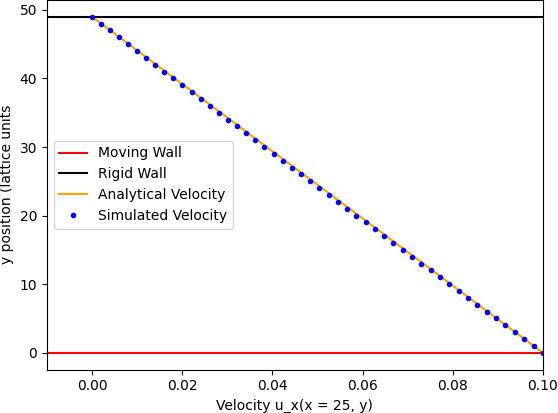
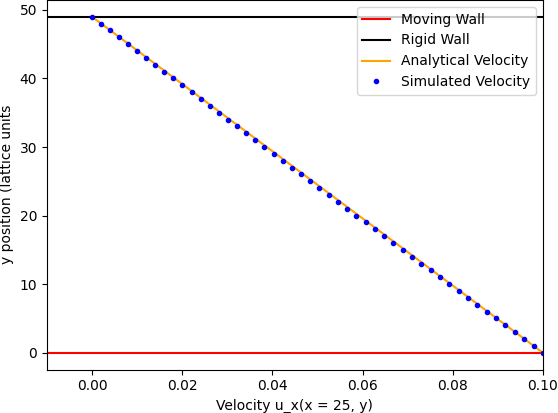
Add parallel code (not working)

Changed region(s): [[0.6398, 0.0, 0.9749, 0.2324], [0.0914, 0.3487, 0.4265, 0.5521], [0.6398, 0.2034, 0.6703, 0.2324]]

diff --git a/plot.py b/plot.py
@@ -12,12 +12,9 @@ VELOCITY = 2
 DENSITY = 3
 
 
-
 class Plotter:
     def __init__(self):
         self.fig, self.ax = plt.subplots()
-        self.fig2, self.ax2 = plt.subplots()
-        self.figs, self.axes = [self.fig, self.fig2], [self.ax, self.ax2]
         self.quantities = []
 
         self.path = os.path.join(PATH, 'shear_wave_decay')
@@ -35,20 +32,20 @@ class Plotter:
 
     def plot_shear_wave(self, velocities, rho, p0, step, epsilon, nx, ny, experiment):
         if experiment == "density":
-            self.axes[0].cla()
-            self.axes[0].set_ylim([-epsilon + p0, epsilon + p0])
-            self.axes[0].plot(np.arange(nx), rho[:, ny//2])
-            self.axes[0].set_xlabel('x')
-            self.axes[0].set_ylabel('density')
+            self.ax.cla()
+            self.ax.set_ylim([-epsilon + p0, epsilon + p0])
+            self.ax.plot(np.arange(nx), rho[:, ny//2], '.', color=COLORS[SIMULATION])
+            self.ax.set_xlabel('x')
+            self.ax.set_ylabel('density')
             save_path = os.path.join(
                 self.density_path, f'density_decay_{step}.png')
-            self.figs[0].savefig(save_path, bbox_inches='tight', pad_inches=0)
+            self.fig.savefig(save_path, bbox_inches='tight', pad_inches=0)
         else:
-            self.axes[0].cla()
-            self.axes[0].set_ylim([-epsilon, epsilon])
-            self.axes[0].plot(np.arange(ny), velocities[0, nx//2, :])
-            self.axes[0].set_xlabel('y')
-            self.axes[0].set_ylabel('velocity')
+            self.ax.cla()
+            self.ax.set_ylim([-epsilon, epsilon])
+            self.ax.plot(np.arange(ny), velocities[0, nx//2, :], '.', color=COLORS[SIMULATION])
+            self.ax.set_xlabel('y')
+            self.ax.set_ylabel('velocity')
             save_path = os.path.join(
                 self.velocity_path, f'shear_wave_{step}.png')
             self.figs[0].savefig(save_path, bbox_inches='tight', pad_inches=0)
@@ -72,8 +69,6 @@ class Plotter:
 class Plotter2:
     def __init__(self):
         self.fig, self.ax = plt.subplots()
-        self.fig2, self.ax2 = plt.subplots()
-        self.figs, self.axes = [self.fig, self.fig2], [self.ax, self.ax2]
 
         self.path = os.path.join(PATH, 'cuette flow')
         os.makedirs(self.path, exist_ok=True)
@@ -82,66 +77,62 @@ class Plotter2:
         y = np.arange(ny)
         analytical = (ny-1 - y) / (ny-1) * wall_velocity[1]
 
-        self.axes[0].cla()
-        self.axes[0].set_xlim([-0.01, wall_velocity[1]])
-        self.axes[0].axhline(0.0, color='red')
-        self.axes[0].axhline(ny-1, color='black')
-        self.axes[0].plot(analytical, y, color=COLORS[ANALYTIC])
-        self.axes[0].plot(velocities[0, nx//2, :], y, '.', color=COLORS[SIMULATION])
-        self.axes[0].set_ylabel('y position (lattice units')
-        self.axes[0].set_xlabel('Velocity u_x(x = 25, y)')
-        self.axes[0].legend(['Moving Wall', 'Rigid Wall', 
-                             'Analytical Velocity','Simulated Velocity'])
+        self.ax.cla()
+        self.ax.set_xlim([-0.01, wall_velocity[1]])
+        self.ax.axhline(0.0, color='red')
+        self.ax.axhline(ny-1, color='black')
+        self.ax.plot(analytical, y, color=COLORS[ANALYTIC])
+        self.ax.plot(velocities[0, nx//2, :], y, '.', color=COLORS[SIMULATION])
+        self.ax.set_ylabel('y position (lattice units')
+        self.ax.set_xlabel('Velocity u_x(x = 25, y)')
+        self.ax.legend(['Moving Wall', 'Rigid Wall', 
+                             'Analytical Velocity','Simulated Velocity'], loc='upper right')
         save_path = os.path.join(self.path, f'couette_flow_{step}')
-        self.figs[0].savefig(save_path, bbox_inches='tight', pad_inches=0)
+        self.fig.savefig(save_path, bbox_inches='tight', pad_inches=0)
 
 
 class Plotter3:
     def __init__(self):
         self.fig, self.ax = plt.subplots()
-        self.fig2, self.ax2 = plt.subplots()
-        self.figs, self.axes = [self.fig, self.fig2], [self.ax, self.ax2]
 
         self.path = os.path.join(PATH, 'poiseuille flow')
         os.makedirs(self.path, exist_ok=True)
 
     def plot_poiseuille_flow(self, rho, velocities, omega, pressure_in, pressure_out, step, nx, ny):
         y = np.arange(ny)
-        self.axes[0].cla()
+        self.ax.cla()
         viscosity = 1/3 * (1/omega - 0.5)
         dynamic_viscosity = rho[nx//2, :] * viscosity
         partial_derivative = (pressure_out - pressure_in) / nx
         analytical = (-0.5 * partial_derivative * y *
                       (ny - 1 - y)) / dynamic_viscosity
-        # axes[0].set_xlim([0, np.max(analytical) + 0.001])
-        self.axes[0].plot(analytical, y, COLORS[ANALYTIC])
-        self.axes[0].plot(velocities[0, nx//2, :], y, '.', COLORS[SIMULATION])
-        self.axes[0].set_ylabel('y')
-        self.axes[0].set_xlabel('velocity')
-        self.axes[0].legend(['Analytical','Simulated'])
+        # ax.set_xlim([0, np.max(analytical) + 0.001])
+        self.ax.plot(analytical, y, COLORS[ANALYTIC])
+        self.ax.plot(velocities[0, nx//2, :], y, '.', COLORS[SIMULATION])
+        self.ax.set_ylabel('y')
+        self.ax.set_xlabel('velocity')
+        self.ax.legend(['Analytical','Simulated'])
         save_path = os.path.join(self.path, f'pousielle_flow_{step}')
-        self.figs[0].savefig(save_path, bbox_inches='tight', pad_inches=0)
+        self.fig.savefig(save_path, bbox_inches='tight', pad_inches=0)
 
 
 class Plotter4:
-    def __init__(self):
+    def __init__(self, experiment='sliding_lid'):
         self.fig, self.ax = plt.subplots()
-        self.fig2, self.ax2 = plt.subplots()
-        self.figs, self.axes = [self.fig, self.fig2], [self.ax, self.ax2]
-
-        self.path = os.path.join(PATH, 'sliding lid')
+        self.experiment = experiment
+        self.path = os.path.join(PATH, experiment)
         os.makedirs(self.path, exist_ok=True)
 
     def plot_sliding_lid(self, velocities, step, nx, ny):
-        self.axes[0].cla()
-        self.axes[0].set_xlim([0, nx])
-        self.axes[0].set_xlim([0, ny])
+        self.ax.cla()
+        self.ax.set_xlim([0, nx])
+        self.ax.set_xlim([0, ny])
         v = np.sqrt(velocities.T[:, :, 0]**2 + velocities.T[:, :, 1]**2)
-        self.axes[0].imshow(v, cmap='RdBu_r', vmin=0, interpolation='spline16')
+        self.ax.imshow(v, cmap='RdBu_r', vmin=0, interpolation='spline16')
         x, y = np.meshgrid(np.arange(nx), np.arange(ny))
-        self.axes[0].streamplot(x, y, velocities.T[:, :, 0], velocities.T[:, :, 1])
-        self.axes[0].legend(['Analytical','Simulated'])
-        self.axes[0].set_ylabel('y')
-        self.axes[0].set_xlabel('x')
-        save_path = os.path.join(self.path, f'sliding_lid_{step}')
-        self.figs[0].savefig(save_path, bbox_inches='tight', pad_inches=0)
+        self.ax.streamplot(x, y, velocities.T[:, :, 0], velocities.T[:, :, 1])
+        self.ax.legend(['Analytical','Simulated'])
+        self.ax.set_ylabel('y')
+        self.ax.set_xlabel('x')
+        save_path = os.path.join(self.path, f'{self.experiment}_{step}')
+        self.fig.savefig(save_path, bbox_inches='tight', pad_inches=0)

diff --git a/lb/manager.py b/lb/manager.py
@@ -1,0 +1,79 @@
+from mpi4py import MPI
+
+
+class WorkManager():
+    def __init__(self, global_nx: int, global_ny: int, worker_grid_x: int, worker_grid_y: int ):
+        self._workers = MPI.COMM_WORLD.Get_size()
+        self._rank = MPI.COMM_WORLD.Get_rank()
+        self._comm = MPI.COMM_WORLD.Create_cart(dims=[worker_grid_x, worker_grid_y], periods=[False, False], reorder=False)
+        
+        assert self._workers > worker_grid_x * worker_grid_y #max size
+
+        self.left_src, self.left_dst = self._comm.Shift(0, -1)
+        self.right_src, self.right_dst = self._comm.Shift(0, 1)
+        self.bottom_src, self.bottom_dst = self._comm.Shift(1, -1)
+        self.top_src, self.top_dst = self._comm.Shift(1, 1)
+        
+        worker_grid_x = global_nx//worker_grid_x
+        worker_grid_y = global_ny//worker_grid_y
+    
+        # We need to take care that the total number of *local* grid points sums up to
+        # nx. The right and topmost MPI processes are adjusted such that this is
+        # fulfilled even if nx, ny is not divisible by the number of MPI processes.
+        if self.right_dst < 0:
+            # This is the rightmost MPI process
+            local_nx = global_nx - local_nx*(worker_grid_x-1)
+            without_ghosts_x = slice(0, local_nx)
+        if self.right_dst >= 0:
+            # Add ghost cell
+            local_nx += 1
+        if self.left_dst >= 0:
+            # Add ghost cell
+            local_nx += 1
+            without_ghosts_x = slice(1, local_nx+1)
+        if self.top_dst < 0:
+            # This is the topmost MPI process
+            local_ny = global_ny - local_ny*(worker_grid_y-1)
+            without_ghosts_y = slice(0, local_ny)
+        if self.top_dst >= 0:
+            # Add ghost cell
+            local_ny += 1
+        if self.bottom_dst >= 0:
+            # Add ghost cell
+            local_ny += 1
+            without_ghosts_y = slice(1, local_ny+1)
+
+        #mpix, mpiy = self._comm.Get_coords(self._rank)
+    
+    def communicate(self, f_ikl) -> None:
+        """
+        Communicate boundary regions to ghost regions.
+
+        Parameters
+        ----------
+        f_ikl : array
+            Array containing the occupation numbers. Array is 3-dimensional, with
+            the first dimension running from 0 to 8 and indicating channel. The
+            next two dimensions are x- and y-position. This array is modified in
+            place.
+        """
+        # Send to left
+        recvbuf = f_ikl[:, -1, :].copy()
+        self._comm.Sendrecv(f_ikl[:, 1, :].copy(), self.left_dst,
+                    recvbuf=recvbuf, source=self.left_src)
+        f_ikl[:, -1, :] = recvbuf
+        # Send to right
+        recvbuf = f_ikl[:, 0, :].copy()
+        self._comm.Sendrecv(f_ikl[:, -2, :].copy(), self.right_dst,
+                    recvbuf=recvbuf, source=self.right_src)
+        f_ikl[:, 0, :] = recvbuf
+        # Send to bottom
+        recvbuf = f_ikl[:, :, -1].copy()
+        self._comm.Sendrecv(f_ikl[:, :, 1].copy(), self.bottom_dst,
+                    recvbuf=recvbuf, source=self.bottom_src)
+        f_ikl[:, :, -1] = recvbuf
+        # Send to top
+        recvbuf = f_ikl[:, :, 0].copy()
+        self._comm.Sendrecv(f_ikl[:, :, -2].copy(), self.top_dst,
+                    recvbuf=recvbuf, source=self.top_src)
+        f_ikl[:, :, 0] = recvbuf

diff --git a/lb/latticeParallel.py b/lb/latticeParallel.py
@@ -1,0 +1,66 @@
+import numpy as np
+from lb.manager import WorkManager 
+from lb.boundaries import PortalWall
+from lb.vars import C, W
+
+class LatticeBoltzmannParallel():
+    def __init__(self, rho, velocities, omega, manager: WorkManager, boundaries = []) -> None:
+        self.rho = rho
+        self.velocities = velocities
+        self.omega = omega
+        self.manager = manager
+        self.boundaries = boundaries
+        self.f = calculate_equilibrium(self.rho, self.velocities)
+        self.f_eq = self.f
+        
+
+    # Executes one time step for the Lattice Boltzmann method
+    def tick(self) -> None:
+        self._communicate()
+        self._pre_stream_boundaries()
+        self._stream()
+        self._after_stream_boundaries()
+        self._collide()
+
+    # Stream particles
+    def _stream(self) -> None:
+        for i in range(9):
+            self.f[i] = np.roll(self.f[i], C[i], axis=(0, 1))
+
+    # Collide particles
+    def _collide(self) -> None:
+        self.rho = calculate_density(self.f)
+        self.velocities = calculate_velocity_field(self.f, self.rho)
+        self.f += self.omega * (self.f_eq - self.f)
+        self.f_eq = calculate_equilibrium(self.rho, self.velocities)
+
+    # Bounce back particles from a wall
+    def _pre_stream_boundaries(self) -> None:
+        for boundary in self.boundaries:
+            if isinstance(boundary, PortalWall):
+                boundary.pre(self.f, self.f_eq, self.velocities)
+            else:
+                boundary.pre(self.f)
+    
+     # Bounce back particles from a wall
+    def _after_stream_boundaries(self) -> None:
+        for boundary in self.boundaries:
+            boundary.after(self.f)
+    
+    def _communicate(self) -> None:
+        self.manager.communicate(self.f)
+
+# Helper functions to calculate density, velocity field, equilibrium
+
+def calculate_density(f) -> np.ndarray:
+    return np.sum(f, axis=0)
+
+def calculate_velocity_field(f, rho) -> np.ndarray:
+    return np.dot(f.T, C).T / rho
+
+def calculate_equilibrium(rho, velocities) -> np.ndarray:
+    test1 = np.dot(velocities.T, C.T).T
+    test2 = np.sum(velocities**2, axis=0)
+    return (W * (rho * (1 + 3 * test1 + 9/2 * test1**2 - 3/2 * test2)).T).T
+        
+    

diff --git a/sliding_lid_parallel.py b/sliding_lid_parallel.py
@@ -1,0 +1,27 @@
+import numpy as np
+from lb import RigidWall, MovingWall, LatticeBoltzmannParallel, WorkManager
+from plot import Plotter4
+
+def sliding_lid_sim(nx: int = 50, ny: int = 50, omega: float = 0.3, steps: int = 20001):
+    
+    rho = np.ones((nx, ny))
+    velocities = np.zeros((2, nx, ny))
+    wall_velocity = np.array([0.0, 0.1])
+    boundaries = [MovingWall("top", wall_velocity, rho), RigidWall("bottom"), RigidWall("left"), RigidWall("right")]
+
+    #omega = 1 / (0.5 + ((wall_velocity[1] * nx) / 1000) / (1/3))
+    #assert(omega < 1.7)
+    manager = WorkManager(nx, ny, 4, 4)
+
+    latticeBoltzmann = LatticeBoltzmannParallel(rho, velocities, omega, manager, boundaries)
+    plotter = Plotter4()
+
+    for(step) in range(steps):
+        latticeBoltzmann.tick()
+        
+        # plot sliding lid every 200 steps 
+        if((step % 1000 == 0)):
+            #plotter.plot_sliding_lid(latticeBoltzmann.velocities, step, nx, ny)
+            print("Step: {}".format(step))
+
+sliding_lid_sim()

diff --git a/lb/latticeSerial.py b/lb/latticeSerial.py
@@ -1,7 +1,6 @@
 import numpy as np
 from lb.boundaries import PortalWall
 from lb.vars import C, W
-from mpi4py import MPI
 
 class LatticeBoltzmann():
     def __init__(self, rho, velocities, omega, boundaries = []) -> None:

diff --git a/lb/__init__.py b/lb/__init__.py
@@ -1,2 +1,5 @@
-from .latticeBoltzmann import *
+from .latticeSerial import *
+from .latticeParallel import *
+from .manager import *
 from .boundaries import *
+from .vars import *

diff --git a/lb/boundaries.py b/lb/boundaries.py
@@ -1,6 +1,5 @@
 from abc import abstractmethod, ABC
 import numpy as np
-import lb
 from lb.vars import C_ALT, W
 
 class Boundary(ABC):
